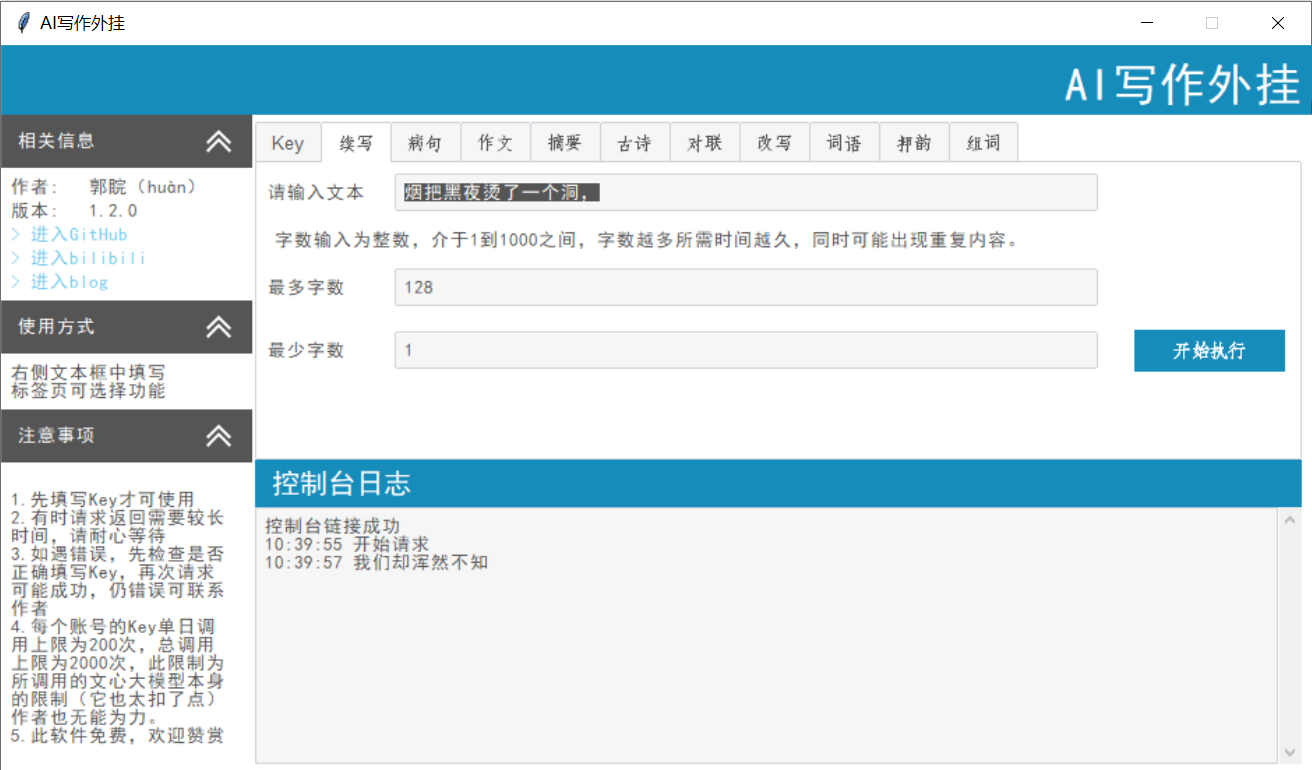
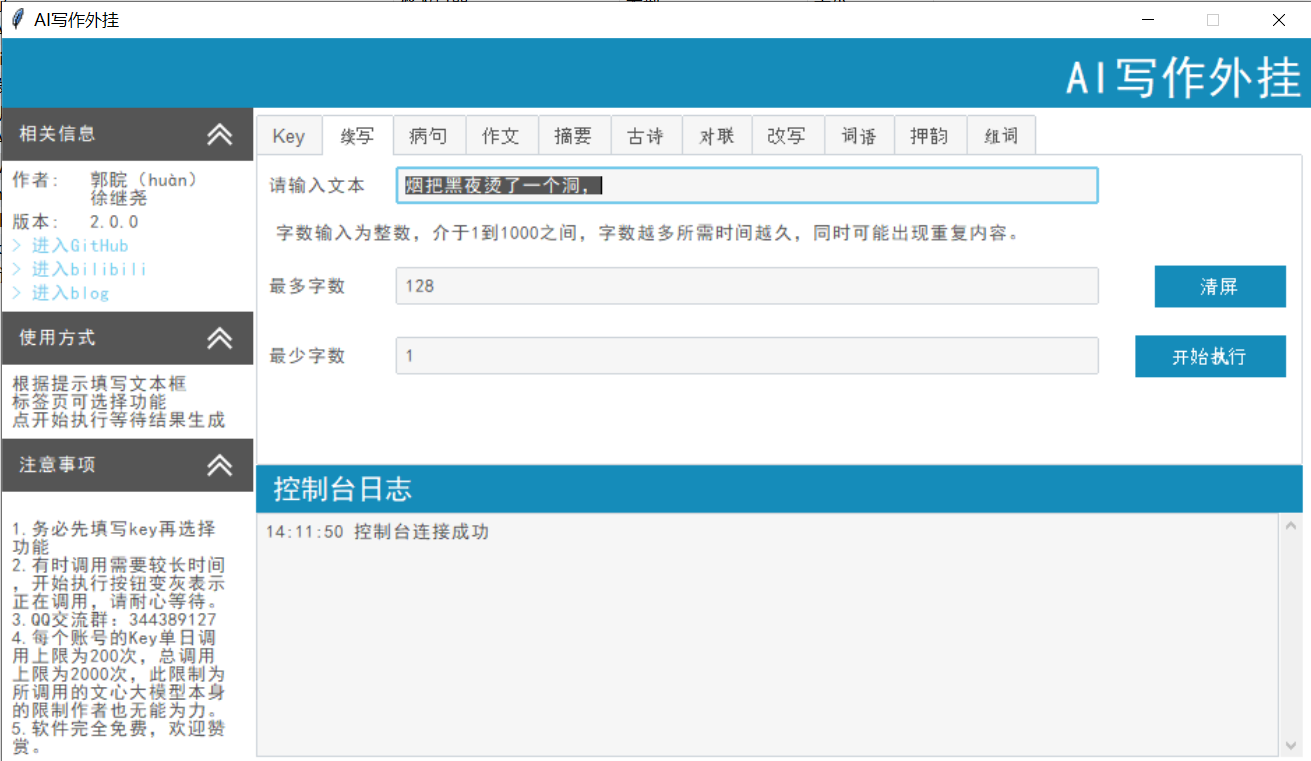
2.0.0版本强势来袭

Changed region(s): [[0.0, 0.0, 1.0, 0.9974], [0.9458, 0.9671, 0.9764, 0.9974]]

diff --git a/README.md b/README.md
@@ -22,17 +22,20 @@
 
 ### 编程环境
 
-python 版本 3.9.1	
+`python` 版本 `3.9.1`	
 
-qgui 版本 0.6.3
+`qgui `版本 `0.6.3`
+
+`wenxin_api`版本 `0.0.2`
 
 ### 安装依赖
 
 ```
 pip install qgui
+pip install wenxin_api==0.0.2
 ```
 
-其他用到的库：requests，json，webbrowser，os
+其他用到的库：`requests`，`json`，`webbrowser`，`os`
 
 ### 运行源码
 
@@ -44,7 +47,7 @@ python AI_writing_helper.py
 
 ### 编程环境
 
-pyinstaller 版本 5.2
+`pyinstaller` 版本 5.2
 
 ### 安装依赖
 
@@ -75,6 +78,8 @@ pip install pyinstaller
 
 如果不想更改的话，不影响源码的执行，打包时候可能报错。
 
+`wenxin_api` `0.1.2`版本打包后运行会报错，找不到一个文件，但是正常用源码运行不影响，作者目前仍然是使用的`0.0.2`版本
+
 ### 打包命令
 
 ```
@@ -88,3 +93,9 @@ pyinstaller -F -w -i AI写作外挂.ico AI_writing_helper.py --collect-all ttkbo
 再将 `AI写作外挂.exe` 与 `images` 文件夹一同压缩为 `AI写作外挂.zip`
 
 软件运行时必须保证，`AI写作外挂.exe` 与`images` 文件夹同级，不可单独移动其一。
+
+## 开发团队
+
+`1.x` 版本为 郭睆 一人
+
+`2.x` 版本 徐继尧 加入
